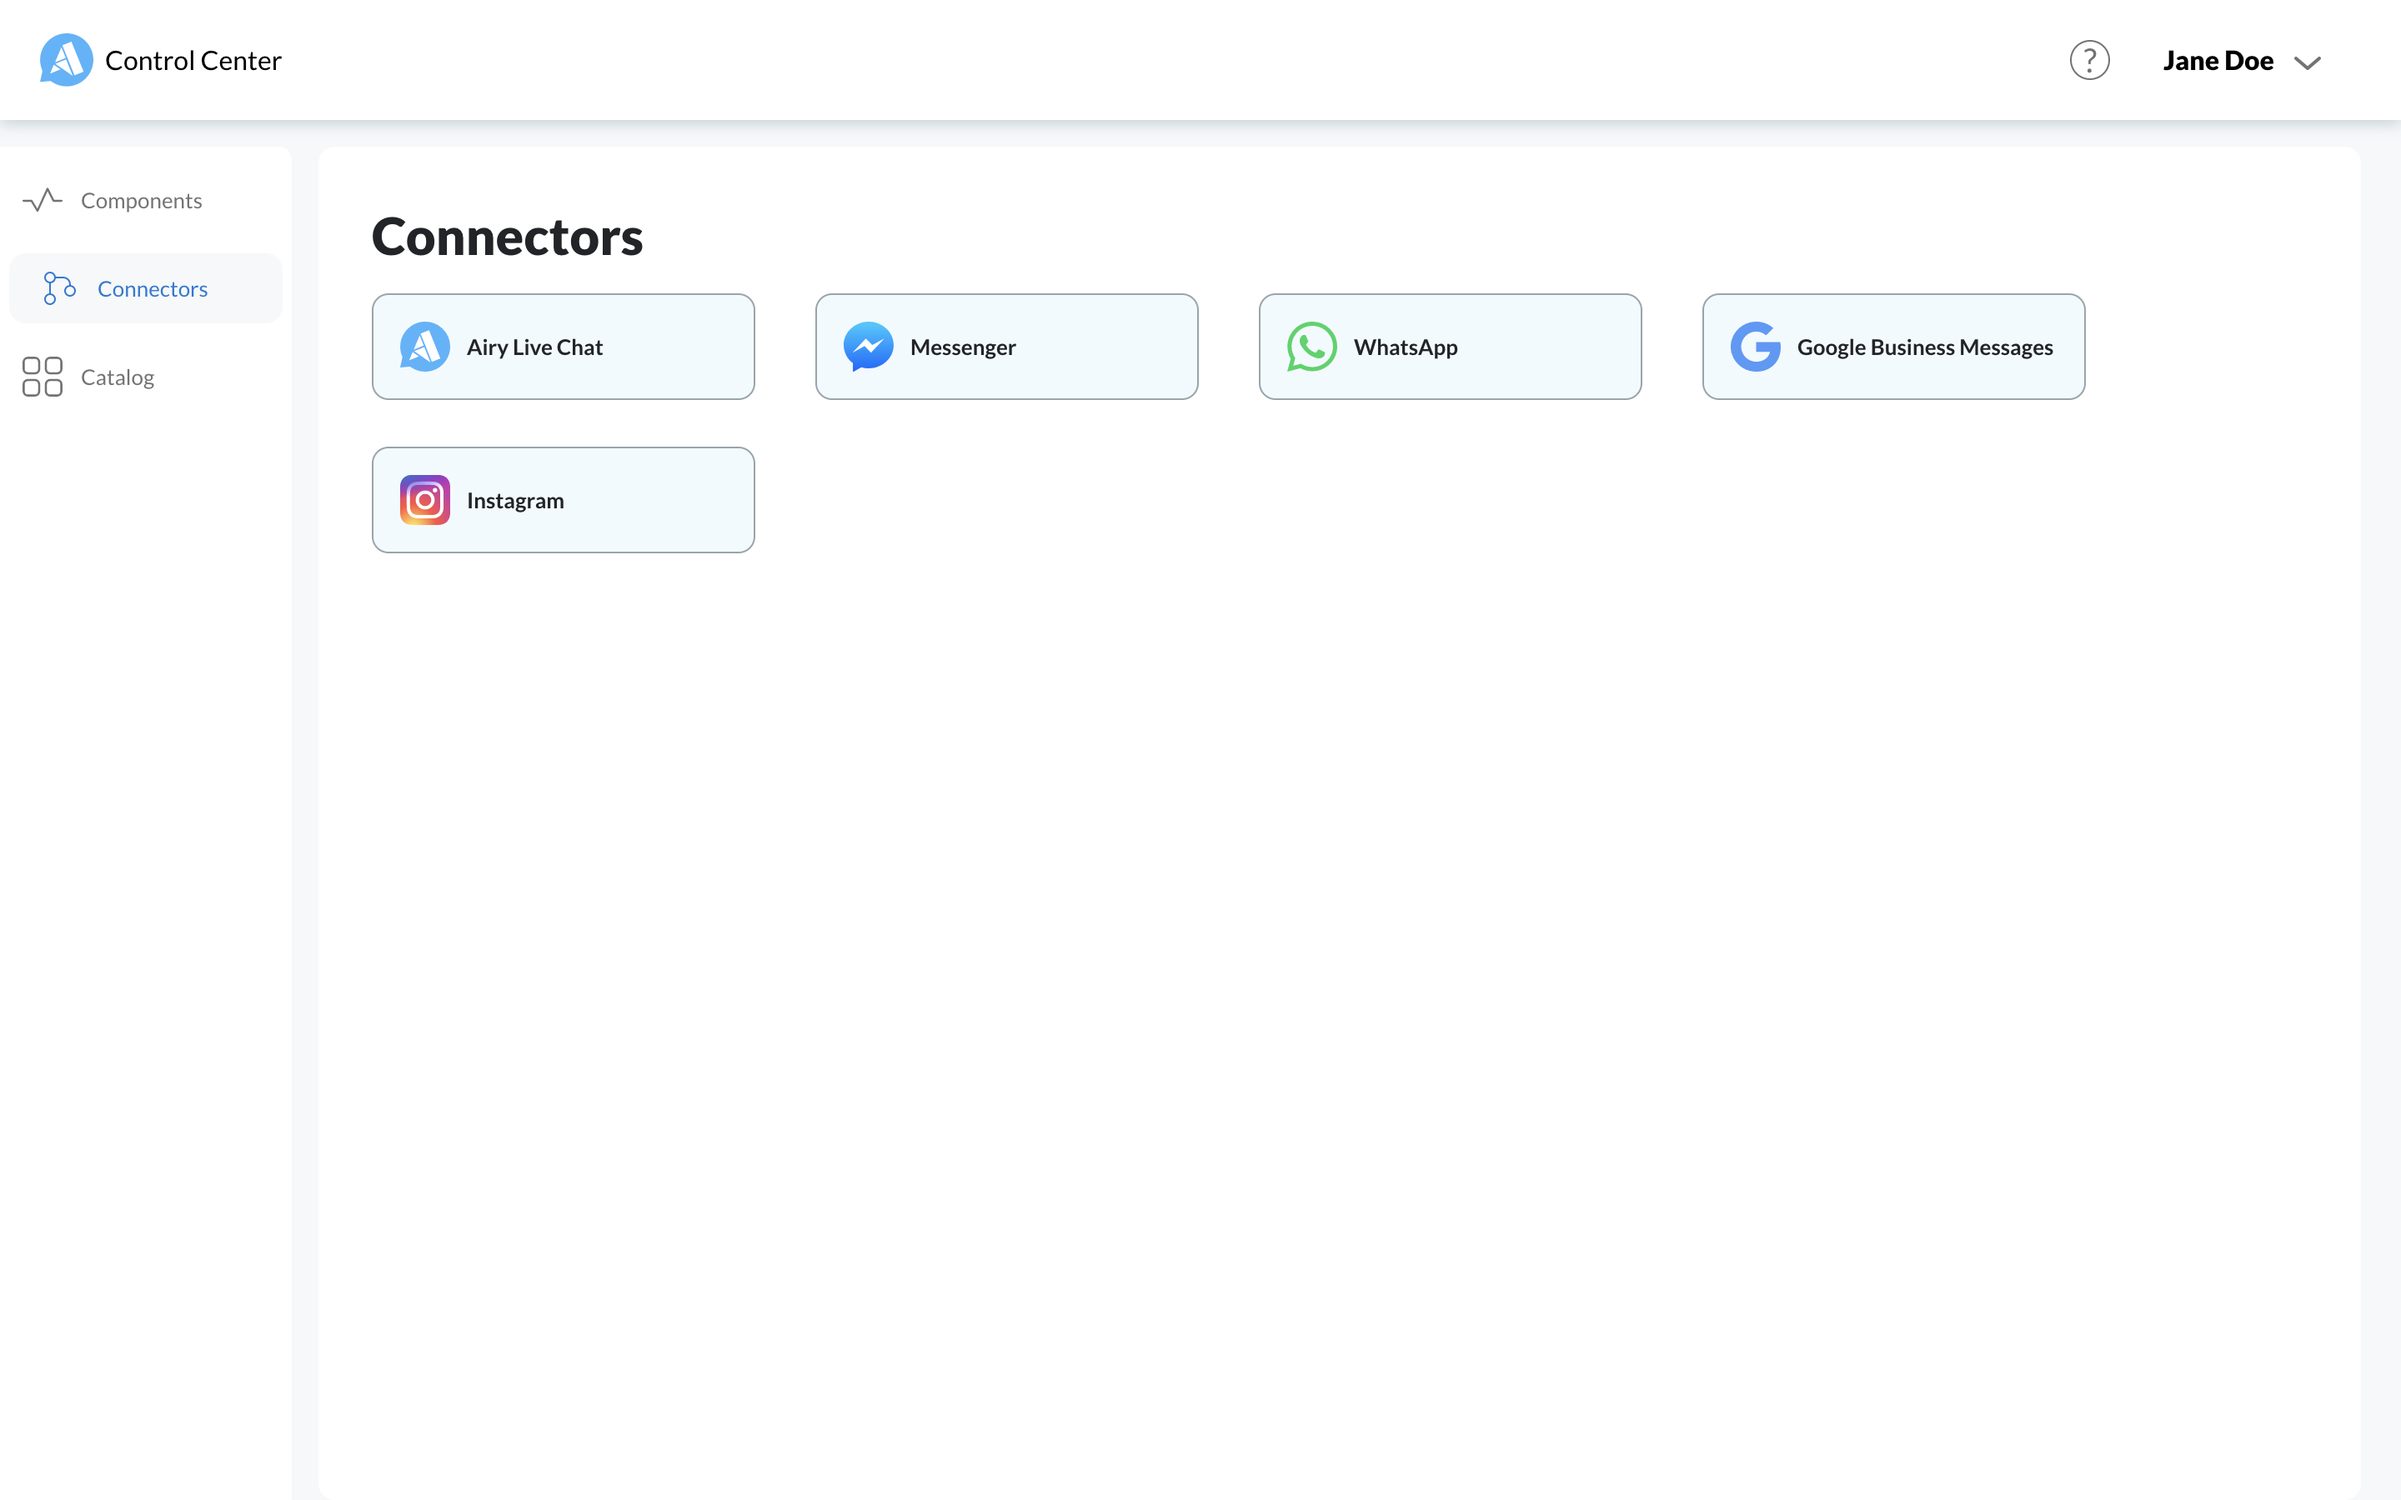
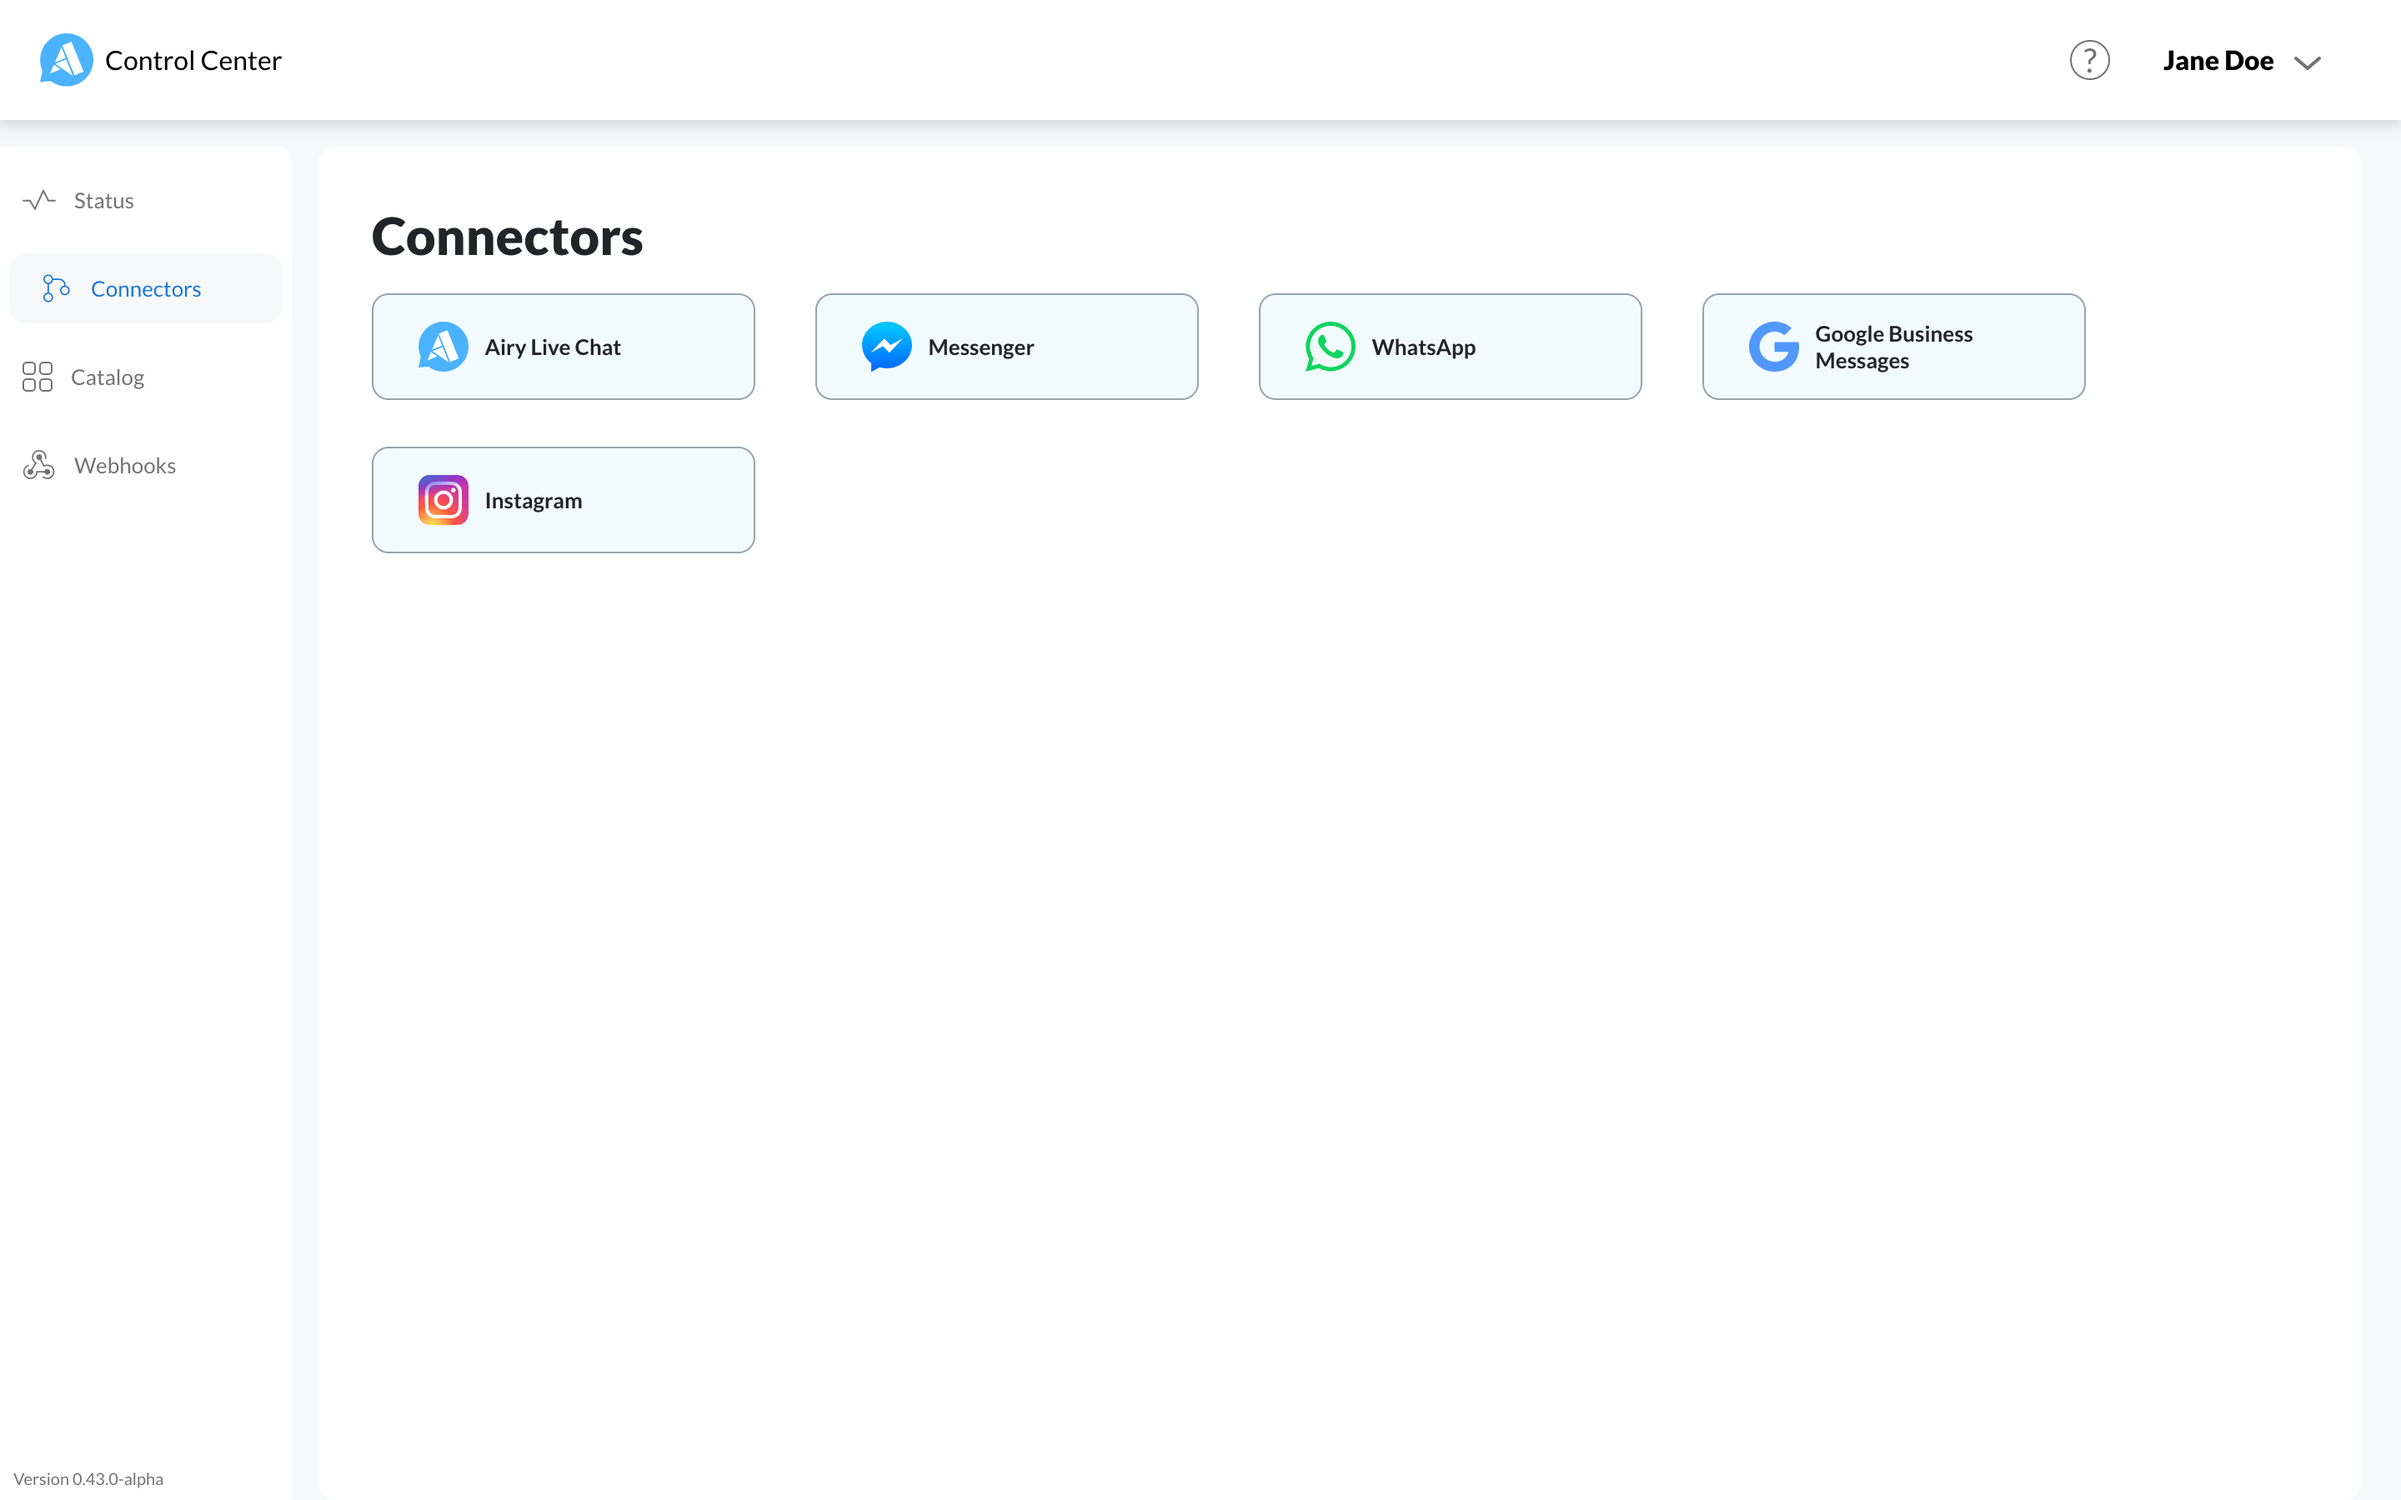
control center update

diff --git a/docs/sidebars.js b/docs/sidebars.js
@@ -85,7 +85,7 @@ module.exports = {
         {
           'Control Center': [
             'ui/control-center/introduction',
-            'ui/control-center/components',
+            'ui/control-center/status',
             'ui/control-center/connectors',
             'ui/control-center/catalog',
           ],

diff --git a/docs/docs/ui/control-center/introduction.md b/docs/docs/ui/control-center/introduction.md
@@ -10,21 +10,23 @@ import ConnectorsSVG from "@site/static/icons/connectorsIcon.svg";
 import CatalogSVG from "@site/static/icons/catalogIcon.svg";
 import useBaseUrl from '@docusaurus/useBaseUrl';
 
-The Control Center serves as a technical dashboard: it provides a graphical overview of an Airy Core instance's [components](/getting-started/components) and [connectors](connectors) while its [catalog](catalog) enables to choose and configure additional [connectors](connectors).
+The Control Center serves as the technical dashboard of your Airy Core app.
+
+It provides both a graphical overview and a way to manage your app's [components](/getting-started/components), [connectors](connectors), and [webhooks](/api/webhook) while its [catalog](catalog) enables you to choose and configure additional [connectors](connectors).
 
 <ButtonBoxList>
     <ButtonBox
         icon={<ComponentsSVG />}
         iconInvertible={true}
-        title='Components'
-        description="Get an overview of your app's components and their status"
-        link='ui/control-center/components'
+        title='Status'
+        description="Get an overview and manage your app's components and their status"
+        link='ui/control-center/status'
     />
     <ButtonBox
         icon={<ConnectorsSVG />}
         title='Connectors'
         iconInvertible={true}
-        description="View and manage your app's connectors"
+        description="View and configure your app's connectors"
         link='ui/control-center/connectors'
     />
      <ButtonBox
@@ -38,7 +40,7 @@ The Control Center serves as a technical dashboard: it provides a graphical over
 
 <br />
 
-Screenshots of the Control Center UI:
-<img alt="Control Center Components Demo"src={useBaseUrl('img/ui/controlCenterComponents.png')} />
-<img alt="Control Center Connectors Demo "src={useBaseUrl('img/ui/controlCenterConnectorsDemo.png')} />
-<img alt="Control Center Catalog Demo"src={useBaseUrl('img/ui/controlCenterCatalogDemo.png')} />
+Screenshots of the Control Center's Status, Connectors, and Catalog pages.
+<img alt="Control Center Status Demo"src={useBaseUrl('img/ui/controlCenterStatus.png')} />
+<img alt="Control Center Connectors Demo "src={useBaseUrl('img/ui/controlCenterConnectors.png')} />
+<img alt="Control Center Catalog Demo"src={useBaseUrl('img/ui/controlCenterCatalog.png')} />

diff --git a/docs/docs/ui/control-center/catalog.md b/docs/docs/ui/control-center/catalog.md
@@ -5,15 +5,19 @@ sidebar_label: Catalog
 
 import useBaseUrl from '@docusaurus/useBaseUrl';
 
-The Catalog page of the [Control Center](/ui/control-center/introduction) lists the available [connectors](/sources/introduction) that can be connected to an Airy Core app. You can choose which connector you want to add and configure it easily (see [Configuration](catalog#configuration) below).
+The Catalog page of the [Control Center](/ui/control-center/introduction) lists both the [connectors](/sources/introduction) that have been installed and not installed.
+
+In the Catalog 'Not Installed' list, you can choose which connector you want to add and configure it easily (see [Configuration](catalog#configuration) below).
 
 A connector is listed in the [Connectors](connectors) page once it has been successfully connected.
 
 ## Example
 
-The screenshots below come from a sample Airy Core app. Its Control Center UI show that the app is already connected to the [Airy Live Chat](/sources/chatplugin/quickstart), [Facebook Messenger](/sources/facebook), [WhatsApp](/sources/whatsapp-twilio), [Google Business Messages](/sources/google), and [Instagram](/sources/instagram) connectors. The [SMS](/sources/sms-twilio) connector is listed in the Catalog: it hasn't been added to the app yet and is available to connect.
-<img alt="Control Center Connectors Example"src={useBaseUrl('img/ui/controlCenterConnectors.png')} />
-<img alt="Control Center Catalog Example"src={useBaseUrl('img/ui/controlCenterCatalogExample.png')} />
+The screenshots below come from a sample Airy Core app's Control Center UI.
+
+The Catalog shows that the app is already connected to the [Airy Live Chat](/sources/chatplugin/quickstart), [Facebook Messenger](/sources/facebook), [WhatsApp](/sources/whatsapp-twilio), [Google Business Messages](/sources/google), and [Instagram](/sources/instagram) connectors. The [SMS](/sources/sms-twilio) connector hasn't been installed yet and is available to connect.
+
+<img alt="Control Center Catalog Example"src={useBaseUrl('img/ui/controlCenterCatalog.png')} />
 
 ## Configuration
 

diff --git a/docs/docs/ui/overview.md b/docs/docs/ui/overview.md
@@ -14,9 +14,9 @@ import TLDR from "@site/src/components/TLDR";
 Not every message can be handled by code, which is why Airy comes with different UIs ready for you and your team to use.
 </TLDR>
 
-While the [Chat Plugin](sources/chatplugin/overview.md) is the open-source chat UI for your website and app visitors, Airy UI offers all of the UI interfaces you need internally for a messaging platform.
+While the [Chat Plugin](sources/chatplugin/overview.md) is the open-source chat UI for your website and app visitors, Airy UI offers all of the interfaces you need internally for a messaging platform.
 
-Airy UI comes with two open-source, customizable separate UIs: the [Inbox](inbox/introduction) and the [Control Center](control-center/introduction).
+Airy UI comes with two open-source, customizable separate UIs: the [Inbox](inbox/introduction) and the [Control Center](control-center/introduction). Both can be accessed through a common landing page (see screenshot below).
 
 The [Inbox](inbox/introduction) offers [instant messaging](inbox/messenger) along with [search, filtering](inbox/messenger#search-and-filter) and [tags](inbox/tags) to organize your conversations.
 
@@ -39,6 +39,13 @@ The [Control Center](control-center/introduction) provides a technical dashboard
     />
 </ButtonBoxList>
 
+Screenshot of the Airy UI landing page:
+<img alt="UI Demo" src={useBaseUrl('img/ui/ui.png')} />
+
+<br />
+<br />
+<br />
+
 Screenshot of the [Inbox](inbox/introduction):
 <img alt="Inbox Messenger Demo" src={useBaseUrl('img/ui/inboxMessenger.png')} />
 
@@ -47,4 +54,4 @@ Screenshot of the [Inbox](inbox/introduction):
 <br />
 
 Screenshot of the [Control Center](control-center/introduction):
-<img alt="Control Center Demo"src={useBaseUrl('img/ui/controlCenterComponents.png')} />
+<img alt="Control Center Demo"src={useBaseUrl('img/ui/controlCenterStatus.png')} />

diff --git a/docs/docs/ui/control-center/status.md b/docs/docs/ui/control-center/status.md
@@ -1,0 +1,12 @@
+---
+title: Status
+sidebar_label: Status
+---
+
+import useBaseUrl from '@docusaurus/useBaseUrl';
+
+The Status section of the [Control Center](/ui/control-center/introduction) provides a high-level overview of all your Airy Core app's [components](/getting-started/components) and their status. It also allows you to enable [components](/getting-started/components) through a toggle and see their status change in real time.
+
+The data displayed in this comprehensible table is served by the [client.config endpoint](/api/endpoints/client-config).
+
+<img alt="Control Center"src={useBaseUrl('img/ui/controlCenterStatus.png')} />
